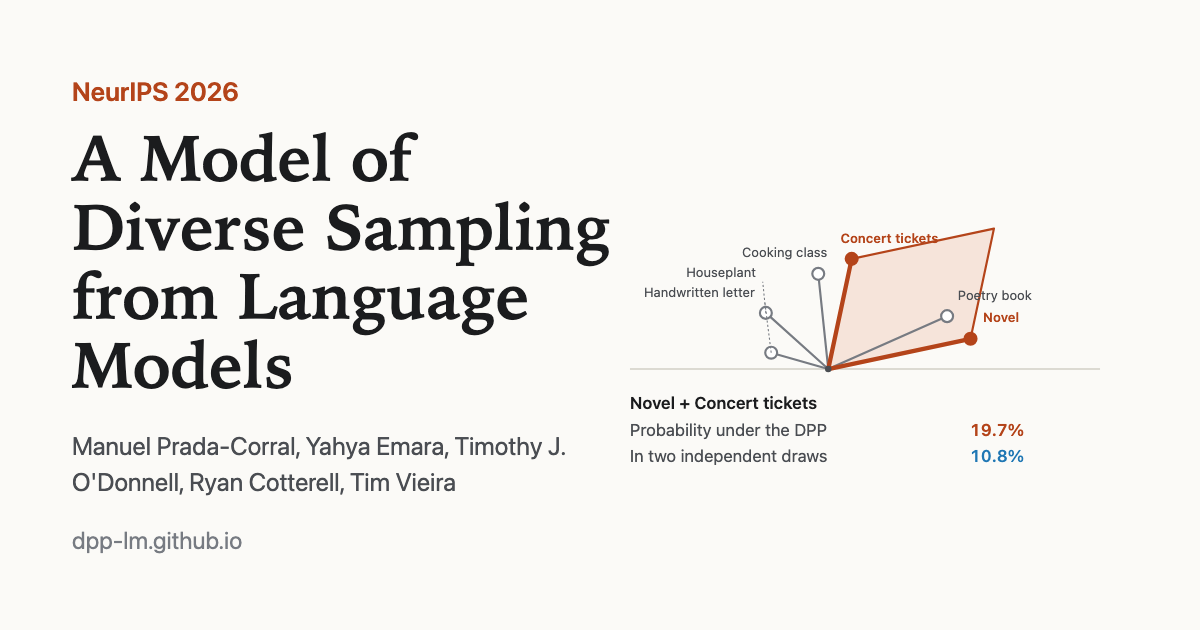
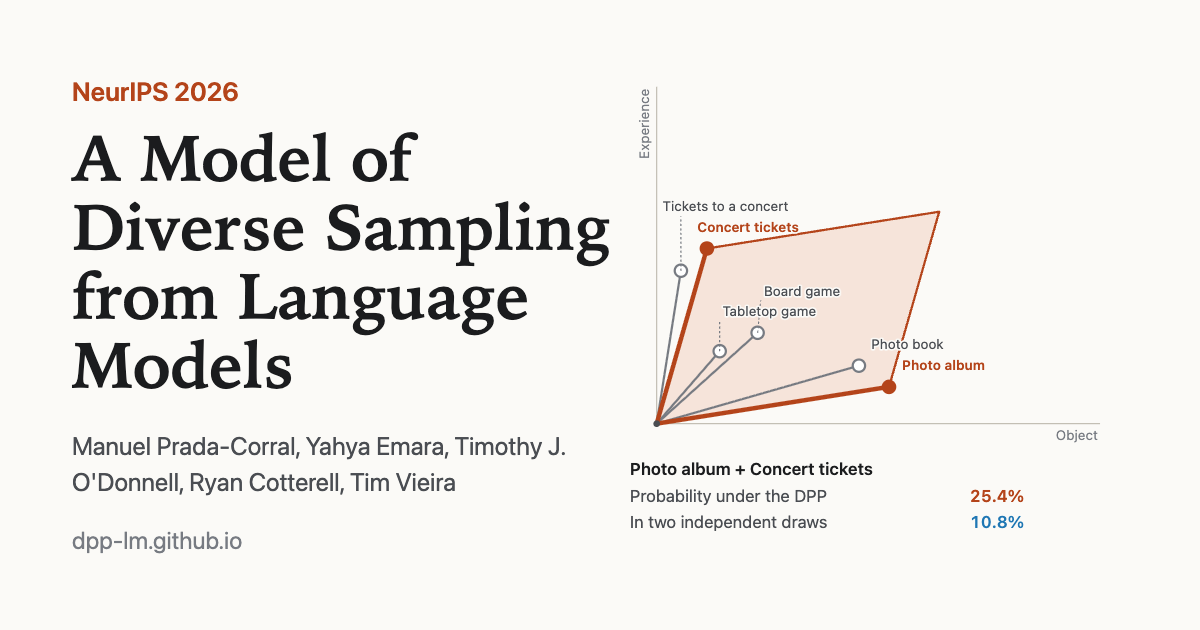
toy paraphrases, named axes, repo label

diff --git a/js/w-volume.js b/js/w-volume.js
@@ -1,5 +1,5 @@
 // Widget "volume": the squared area spanned by two quality-scaled embeddings is the 2-DPP score of a pair.
-import { TOY, TOY_PROMPT } from './toy.js';
+import { TOY, TOY_PROMPT, TOY_AXES } from './toy.js';
 import { bindRange } from './ui-range.js';
 import { quality, length, sin2, dppPairs, indepPairs, topPair, mostDifferentPair, placeLabels } from './w-volume-lib.js';
 
@@ -8,10 +8,12 @@ const RAD = Math.PI / 180;
 const T_MIN = 0.3, T_MAX = 5, T_DEFAULT = 1;
 const DEFAULT_SEL = [0, 1];
 const FONT = 12;
+// Arrows stay in the first quadrant, where a larger angle between two arrows always means a larger area.
+const A_MIN = 2, A_MAX = 88;
 
 const sliderToT = (v) => T_MIN * Math.pow(T_MAX / T_MIN, v / 1000);
 const tToSlider = (T) => (1000 * Math.log(T / T_MIN)) / Math.log(T_MAX / T_MIN);
-const pct = (x) => (100 * x).toFixed(1) + '%';
+const pct = (x) => (x > 0 && x < 0.0005 ? '<0.1%' : (100 * x).toFixed(1) + '%');
 const SUP = { '-': '⁻', 0: '⁰', 1: '¹', 2: '²', 3: '³', 4: '⁴', 5: '⁵', 6: '⁶', 7: '⁷', 8: '⁸', 9: '⁹' };
 function num(x) {
   if (x === 0) return '0';
@@ -59,19 +61,19 @@ export function mount(root) {
   ends.append(h('span', null, 'favors quality'), h('span', null, 'favors diversity'));
   tBlock.append(tLabel, slider, ends);
   const btns = h('div', 'wv-btns');
-  const bBooks = h('button', null, 'Two books');
+  const bSame = h('button', null, 'Same gift, two wordings');
   const bTop = h('button', null, 'Most likely pair');
   const bDiff = h('button', null, 'Most different pair');
   const bReset = h('button', null, 'Reset');
-  for (const b of [bBooks, bTop, bDiff, bReset]) b.type = 'button';
-  btns.append(bBooks, bTop, bDiff, bReset);
+  for (const b of [bSame, bTop, bDiff, bReset]) b.type = 'button';
+  btns.append(bSame, bTop, bDiff, bReset);
   controls.append(tBlock, btns);
 
   // ---- panels
   const grid = h('div', 'wv-grid');
   const plotPanel = h('div', 'wv-plotpanel');
   const plotBox = h('div', 'wv-plotbox');
-  const svg = el('svg', { class: 'wv-svg', role: 'group', 'aria-label': 'Six answers as arrows from the origin' });
+  const svg = el('svg', { class: 'wv-svg', role: 'group', 'aria-label': `Six answers as arrows from the origin. Horizontal: ${TOY_AXES.x.toLowerCase()}. Vertical: ${TOY_AXES.y.toLowerCase()}.` });
   plotBox.append(svg);
   const plotNote = h('p', 'wv-help fig-note', 'Select two arrows or drag a tip. Length is the square root of quality, relative to the longest arrow.');
   const readout = h('div', 'wv-readout');
@@ -94,19 +96,20 @@ export function mount(root) {
     return items.map((it) => measure.measureText(it.short).width);
   };
 
+  // The plot is a square of side W, with the origin at its lower left.
   function frame() {
-    return { W: Math.max(260, Math.floor(plotBox.clientWidth || 320)) };
+    return { W: Math.max(260, Math.min(SIDE_MAX, Math.floor(plotBox.clientWidth || 320))) };
   }
   // One fixed frame for every pair, drag angle, and T. Scaling all lengths by one factor leaves the 2-DPP unchanged,
-  // so lengths are drawn relative to the longest arrow, which keeps R pixels. With angles in [2, 178] degrees, a far
-  // corner lies within REACH * R of the origin, where REACH = 1 + the second-longest relative length at T_MAX.
+  // so lengths are drawn relative to the longest arrow, which keeps R pixels. With angles in [A_MIN, A_MAX], a far
+  // corner lies within REACH * R of the origin along each axis, where REACH = 1 + the second-longest relative
+  // length at T_MAX. GUT holds the axis titles, left of the vertical axis and below the horizontal one.
   const REACH = (() => { const l = items.map((it) => length(it.p, T_MAX)).sort((a, b) => b - a); return 1 + l[1] / l[0]; })();
-  const MARGIN = 12;
+  const MARGIN = 12, GUT = 18, SIDE_MAX = 440;
   function viewAt(T) {
     const { W } = frame();
-    const R = (W - 2 * MARGIN) / (2 * REACH);
-    const H = Math.ceil(REACH * R + 2 * MARGIN);
-    return { W, H, s: R / Math.max(...items.map((it) => length(it.p, T))), ox: W / 2, oy: H - MARGIN, T };
+    const R = (W - GUT - MARGIN) / REACH;
+    return { W, H: W, s: R / Math.max(...items.map((it) => length(it.p, T))), ox: GUT, oy: W - GUT, T };
   }
   const tipAt = (i, v) => {
     const L = length(items[i].p, v.T) * v.s;
@@ -126,22 +129,30 @@ export function mount(root) {
     svg.textContent = '';
     const { ox, oy } = v;
     const [sa, sb] = state.sel;
-    svg.append(el('line', { class: 'wv-axis', x1: 0, y1: oy, x2: W, y2: oy }));
+    svg.append(el('line', { class: 'wv-axis', x1: ox, y1: oy, x2: W, y2: oy }));
+    svg.append(el('line', { class: 'wv-axis', x1: ox, y1: oy, x2: ox, y2: 0 }));
+    svg.append(el('text', { class: 'wv-axt', x: W - 2, y: oy + 14, 'text-anchor': 'end' }, TOY_AXES.x));
+    svg.append(el('text', { class: 'wv-axt', transform: `translate(${ox - 6} 2) rotate(-90)`, 'text-anchor': 'end' }, TOY_AXES.y));
 
     const tips = items.map((_, i) => tipAt(i, v));
     const A = tips[sa], B = tips[sb];
     const pts = [[ox, oy], [A.x, A.y], [A.x + B.x - ox, A.y + B.y - oy], [B.x, B.y]];
     svg.append(el('polygon', { class: 'wv-area', points: pts.map((p) => p.join(',')).join(' ') }));
     const areaPx = Math.abs((A.x - ox) * (B.y - oy) - (A.y - oy) * (B.x - ox));
-    if (areaPx > 12000) {
-      const cx = (pts[0][0] + pts[2][0]) / 2, cy = (pts[0][1] + pts[2][1]) / 2;
-      const a = items[sa], b = items[sb];
-      const t = el('text', { class: 'wv-areatext', x: cx, y: cy + 4, 'text-anchor': 'middle' }, `area² ${num(quality(a.p, state.T) * quality(b.p, state.T) * sin2(a, b))}`);
-      svg.append(t);
-    }
+    const areaText = areaPx > 12000 ? el('text', { class: 'wv-areatext', 'text-anchor': 'middle' }, `area² ${num(quality(items[sa].p, state.T) * quality(items[sb].p, state.T) * sin2(items[sa], items[sb]))}`) : null;
+    if (areaText) svg.append(areaText);
 
     const widths = labelWidths();
     const boxes = placeLabels({ items, tips, ox, oy, W, widths, rMin: Math.max(34, 0.09 * W), h: FONT + 5 });
+    if (areaText) {
+      // On the diagonal of the parallelogram, at the spot nearest its center that is clear of the answer labels and tips.
+      const tw = 7.2 * areaText.textContent.length, th = 16;
+      const clear = ([cx, cy]) => boxes.every((b) => Math.abs(b.cx - cx) >= (b.w + tw) / 2 || Math.abs(b.cy - cy) >= (b.h + th) / 2)
+        && tips.every((t) => Math.abs(t.x - cx) >= tw / 2 + 9 || Math.abs(t.y - cy) >= th / 2 + 9);
+      const spots = [0.5, 0.6, 0.4, 0.7, 0.3, 0.8].map((u) => [ox + (pts[2][0] - ox) * u, oy + (pts[2][1] - oy) * u]);
+      const [cx, cy] = spots.find(clear) || spots[0];
+      areaText.setAttribute('x', cx); areaText.setAttribute('y', cy + 4);
+    }
 
     const order = items.map((_, i) => i).sort((a, b) => (state.sel.includes(a) ? 1 : 0) - (state.sel.includes(b) ? 1 : 0));
     for (const i of order) {
@@ -151,7 +162,7 @@ export function mount(root) {
         class: 'wv-arrow' + (sel ? ' is-sel' : ''),
         tabindex: 0, role: 'slider', 'data-i': i,
         'aria-label': `${items[i].short}, probability ${pct(items[i].p)}`,
-        'aria-valuemin': 2, 'aria-valuemax': 178, 'aria-valuenow': Math.round(items[i].angle),
+        'aria-valuemin': A_MIN, 'aria-valuemax': A_MAX, 'aria-valuenow': Math.round(items[i].angle),
         'aria-valuetext': `${Math.round(items[i].angle)} degrees${sel ? ', selected' : ''}`,
       });
       g.append(el('line', { class: 'wv-hit', x1: ox, y1: oy, x2: t.x, y2: t.y }));
@@ -221,7 +232,7 @@ export function mount(root) {
     const y = (e.clientY - r.top) * (geo.H / r.height);
     return Math.atan2(view.oy - y, x - view.ox) / RAD;
   }
-  function setAngle(i, a) { items[i].angle = Math.min(178, Math.max(2, a)); }
+  function setAngle(i, a) { items[i].angle = Math.min(A_MAX, Math.max(A_MIN, a)); }
   function onMove(e) {
     if (!drag || e.pointerId !== drag.id) return;
     setAngle(drag.i, pointerAngle(e));
@@ -342,7 +353,7 @@ export function mount(root) {
 
   // ---- controls
   slider.addEventListener('input', () => { state.T = sliderToT(+slider.value); update(true); });
-  bBooks.addEventListener('click', () => { state.sel = [0, 1]; update(true); });
+  bSame.addEventListener('click', () => { state.sel = [0, 1]; update(true); });
   bTop.addEventListener('click', () => { const t = topPair(items, state.T); state.sel = [t.i, t.j]; update(true); });
   bDiff.addEventListener('click', () => { const m = mostDifferentPair(items); state.sel = [m.i, m.j]; update(true); });
   bReset.addEventListener('click', () => {
@@ -351,7 +362,7 @@ export function mount(root) {
     update(true);
   });
 
-  // First-view hint: the Houseplant tip swings 12 degrees and back, then stops.
+  // First-view hint: the Board game tip swings 12 degrees and back, then stops.
   const HINT_I = 4;
   function stopHint() { if (hint) { cancelAnimationFrame(hint.raf); items[HINT_I].angle = hint.base; hint = null; update(false); } }
   function playHint() {
@@ -379,7 +390,7 @@ export function mount(root) {
   if (typeof ResizeObserver !== 'undefined') {
     let last = geo.W;
     new ResizeObserver(() => {
-      const w = Math.max(260, Math.floor(plotBox.clientWidth || 320));
+      const w = frame().W;
       if (w !== last && !drag) { last = w; update(); }
     }).observe(plotBox);
   }

diff --git a/js/w-hero.js b/js/w-hero.js
@@ -1,20 +1,21 @@
-// Widget "hero": six answers as arrows that cycle through pairs, each pair's parallelogram and probabilities.
-import { TOY, TOY_PROMPT } from './toy.js';
+// Widget "hero": six answers as arrows in one quadrant that cycle through pairs, each pair's parallelogram and probabilities.
+import { TOY, TOY_PROMPT, TOY_AXES } from './toy.js';
 import { length, pairDet, normalizer, indepPairs, fitContent, placeLabels } from './w-volume-lib.js';
 
 const NS = 'http://www.w3.org/2000/svg';
 const RAD = Math.PI / 180;
 const FONT = 12;
+const GUT = 16; // room for the axis titles: left of the vertical axis and below the horizontal one
 const T = 1;
 const INTERVAL = 5000;
 const TWEEN = 900;
-// Alternates similar pairs (small angle) and different pairs (large angle).
+// Alternates two wordings of one gift (small angle) and two different gifts (large angle).
 const SEQUENCE = [[0, 1], [0, 2], [2, 3], [1, 4], [4, 5], [2, 5]];
 // Every pair a visitor can select; the fixed view fits all of their parallelograms.
 const ALL_PAIRS = TOY.flatMap((_, i) => TOY.map((_, j) => [i, j]).filter(([, j]) => j > i));
 const REDUCED_PAIR = [0, 2];
 const coarse = () => matchMedia('(pointer: coarse)').matches;
-const pct = (x) => (100 * x).toFixed(1) + '%';
+const pct = (x) => (x > 0 && x < 0.0005 ? '<0.1%' : (100 * x).toFixed(1) + '%');
 
 const el = (tag, attrs = {}, text) => {
   const n = document.createElementNS(NS, tag);
@@ -42,7 +43,7 @@ export function mount(root) {
   root.classList.add('w-hero');
   root.textContent = '';
   const plotBox = h('div', 'wh-plot');
-  const svg = el('svg', { class: 'wh-svg', role: 'group', 'aria-label': 'Six answers as arrows from the origin' });
+  const svg = el('svg', { class: 'wh-svg', role: 'group', 'aria-label': `Six answers as arrows from the origin. Horizontal: ${TOY_AXES.x.toLowerCase()}. Vertical: ${TOY_AXES.y.toLowerCase()}.` });
   plotBox.append(svg);
   const line = h('p', 'wh-line');
   line.setAttribute('aria-live', 'off');
@@ -67,7 +68,7 @@ export function mount(root) {
   let timer = null, tween = null;
   let W = 0, H = 0, widths = [];
   let view = null, vecU = null; // view = { s, ox, oy }, vecU = unit-scale vectors of the drawn parallelogram
-  let arrows = [], labelEls = [], leaders = [], areaEl = null, axisEl = null, originEl = null;
+  let arrows = [], labelEls = [], leaders = [], areaEl = null, axisX = null, axisY = null, titleX = null, titleY = null, originEl = null;
   const unitVec = (i) => {
     const L = length(items[i].p, T), a = items[i].angle * RAD;
     return [L * Math.cos(a), L * Math.sin(a)];
@@ -78,8 +79,9 @@ export function mount(root) {
     const ctx = h('canvas').getContext('2d');
     ctx.font = `600 ${FONT}px ${getComputedStyle(root).fontFamily || 'sans-serif'}`;
     widths = items.map((it) => ctx.measureText(it.short).width);
-    view = fitContent({ items, T, pairList: ALL_PAIRS, W, hMin: 0.45 * W, hMax: 0.75 * W, labelW: widths, labelH: FONT + 5 });
-    H = view.H;
+    view = fitContent({ items, T, pairList: ALL_PAIRS, W: W - GUT, hMin: 0.45 * W, hMax: 0.75 * W, margin: 8, labelW: widths, labelH: FONT + 5 });
+    view.ox += GUT;
+    H = view.H + GUT;
   }
 
   function build() {
@@ -87,7 +89,10 @@ export function mount(root) {
     svg.textContent = '';
     svg.setAttribute('viewBox', `0 0 ${W} ${H}`);
     svg.setAttribute('width', W); svg.setAttribute('height', H);
-    axisEl = el('line', { class: 'wh-axis' }); svg.append(axisEl);
+    axisX = el('line', { class: 'wh-axis' }); axisY = el('line', { class: 'wh-axis' });
+    titleX = el('text', { class: 'wh-axt', 'text-anchor': 'end' }, TOY_AXES.x);
+    titleY = el('text', { class: 'wh-axt', 'text-anchor': 'end' }, TOY_AXES.y);
+    svg.append(axisX, axisY, titleX, titleY);
     areaEl = el('polygon', { class: 'wh-area' }); svg.append(areaEl);
     arrows = items.map((it, i) => {
       const g = el('g', { class: 'wh-arrow', tabindex: 0, role: 'button', 'data-i': i, 'aria-label': `${it.short}, probability ${pct(it.p)}` });
@@ -120,7 +125,10 @@ export function mount(root) {
   // Position every element from the view and the (possibly mid-tween) parallelogram vectors.
   function place() {
     const { s, ox, oy } = view;
-    axisEl.setAttribute('x1', 0); axisEl.setAttribute('x2', W); axisEl.setAttribute('y1', oy); axisEl.setAttribute('y2', oy);
+    axisX.setAttribute('x1', ox); axisX.setAttribute('x2', W); axisX.setAttribute('y1', oy); axisX.setAttribute('y2', oy);
+    axisY.setAttribute('x1', ox); axisY.setAttribute('x2', ox); axisY.setAttribute('y1', oy); axisY.setAttribute('y2', 0);
+    titleX.setAttribute('x', W - 2); titleX.setAttribute('y', oy + 15);
+    titleY.setAttribute('transform', `translate(${ox - 7} 2) rotate(-90)`);
     originEl.setAttribute('cx', ox); originEl.setAttribute('cy', oy);
     const tips = items.map((_, i) => { const [ux, uy] = unitVec(i); return { x: ox + ux * s, y: oy - uy * s, L: Math.hypot(ux, uy) * s }; });
     arrows.forEach((a, i) => {

diff --git a/css/site.css b/css/site.css
@@ -55,8 +55,8 @@ a:hover { text-decoration-thickness: 2px; }
 .hero { padding: 3.5rem var(--gutter) 2.5rem; border-bottom: 1px solid var(--line); }
 .hero-inner { max-width: var(--w-wide); margin: 0 auto; }
 .hero-inner { display: grid; grid-template-columns: minmax(0, 1fr) 420px; gap: 2.5rem; align-items: center; }
-.hero-fig { min-height: 340px; min-width: 0; align-self: center; }
-.hero-fig .widget { min-height: 340px; }
+.hero-fig { min-height: 446px; min-width: 0; align-self: center; }
+.hero-fig .widget { min-height: 446px; }
 .hero-fig.is-empty { display: none; }
 @media (min-width: 761px) { .hero-inner.has-empty, .hero-inner:has(.is-empty) { grid-template-columns: minmax(0, 1fr); } }
 @media (max-width: 760px) { .hero-inner { grid-template-columns: minmax(0, 1fr); gap: 1.75rem; } .hero-fig { min-height: 0; } .hero-fig .widget { min-height: 0; } }
@@ -73,7 +73,7 @@ a:hover { text-decoration-thickness: 2px; }
 .affils sup { margin: 0 2px 0 0; }
 .buttons { margin: 0; display: flex; flex-wrap: wrap; gap: 0.6rem; }
 .btn {
-  display: inline-block; padding: 0.45rem 1.2rem; border-radius: 999px;
+  display: inline-block; padding: 0.45rem 1.05rem; border-radius: 999px;
   border: 1px solid var(--line-strong); color: var(--ink);
   background: transparent; text-decoration: none; font-size: var(--text-s); font-weight: 550;
 }
@@ -167,15 +167,15 @@ main > .sec:last-child { padding-bottom: 4rem; }
 }
 
 /* Reserved heights until a widget has mounted (measured at 1280 and 390 px). */
-.widget[data-widget="samples"]:not([data-ready]) { min-height: 919px; }
-.widget[data-widget="volume"]:not([data-ready]) { min-height: 696px; }
-.widget[data-widget="pool"]:not([data-ready]) { min-height: 1074px; }
-.widget[data-widget="frontier"]:not([data-ready]) { min-height: 977px; }
+.widget[data-widget="samples"]:not([data-ready]) { min-height: 992px; }
+.widget[data-widget="volume"]:not([data-ready]) { min-height: 862px; }
+.widget[data-widget="pool"]:not([data-ready]) { min-height: 1043px; }
+.widget[data-widget="frontier"]:not([data-ready]) { min-height: 804px; }
 @media (max-width: 760px) {
-  .widget[data-widget="samples"]:not([data-ready]) { min-height: 1452px; }
-  .widget[data-widget="volume"]:not([data-ready]) { min-height: 1352px; }
-  .widget[data-widget="pool"]:not([data-ready]) { min-height: 1877px; }
-  .widget[data-widget="frontier"]:not([data-ready]) { min-height: 1190px; }
+  .widget[data-widget="samples"]:not([data-ready]) { min-height: 1680px; }
+  .widget[data-widget="volume"]:not([data-ready]) { min-height: 1349px; }
+  .widget[data-widget="pool"]:not([data-ready]) { min-height: 1934px; }
+  .widget[data-widget="frontier"]:not([data-ready]) { min-height: 957px; }
 }
 
 .lede { margin: 0 0 1.25rem; max-width: 36rem; font-size: 1.125rem; line-height: 1.5; color: var(--ink-2); }

diff --git a/js/toy.js b/js/toy.js
@@ -1,16 +1,20 @@
-// The toy model used by the "volume" and "pool" widgets: six answers to "Suggest a birthday gift for a friend."
-// It is illustrative, not model output. Each answer has a probability p under a pretend language model and a
-// unit embedding in the plane at the given angle (degrees). Answers 0 and 1 are near-duplicates, as are 2 and 3.
+// The toy model used by the "hero", "volume", and "pool" widgets: six answers to "Suggest a birthday gift for a friend."
+// It is illustrative, not model output. The answers are three gift ideas in two wordings each: answers 0 and 1,
+// 2 and 3, and 4 and 5 are near-duplicates. Each answer has a probability p under a pretend language model and a
+// unit embedding in the plane at the given angle (degrees). All angles lie in the first quadrant, where the
+// horizontal axis stands for an object and the vertical axis for an experience, so a larger angle between two
+// answers always means a larger area.
 // data/pool-toy.json is precomputed from these values: change them only together with scripts/precompute_pool.mjs.
 export const TOY_PROMPT = 'Suggest a birthday gift for a friend.';
+export const TOY_AXES = { x: 'Object', y: 'Experience' };
 
 export const TOY = [
-  { id: 'novel',   text: 'A novel by their favorite author',  short: 'Novel',            p: 0.30, angle: 12 },
-  { id: 'poetry',  text: 'A book of poems',                   short: 'Poetry book',      p: 0.24, angle: 24 },
-  { id: 'concert', text: 'Tickets to a concert',              short: 'Concert tickets',  p: 0.18, angle: 78 },
-  { id: 'class',   text: 'A cooking class for two',           short: 'Cooking class',    p: 0.13, angle: 96 },
-  { id: 'plant',   text: 'A houseplant',                      short: 'Houseplant',       p: 0.10, angle: 138 },
-  { id: 'letter',  text: 'A handwritten letter',              short: 'Handwritten letter', p: 0.05, angle: 164 },
+  { id: 'album',    text: 'A photo album of your memories together', short: 'Photo album',          p: 0.30, angle: 9 },
+  { id: 'book',     text: 'A photo book of your time together',      short: 'Photo book',           p: 0.24, angle: 16 },
+  { id: 'concert',  text: 'Concert tickets for the two of you',      short: 'Concert tickets',      p: 0.18, angle: 74 },
+  { id: 'tickets',  text: 'Tickets to a concert together',           short: 'Tickets to a concert', p: 0.13, angle: 81 },
+  { id: 'board',    text: 'A board game to play together',           short: 'Board game',           p: 0.10, angle: 42 },
+  { id: 'tabletop', text: 'A tabletop game for game nights',         short: 'Tabletop game',        p: 0.05, angle: 49 },
 ];
 
 export const TOY_K = 2;

diff --git a/index.html b/index.html
@@ -83,7 +83,7 @@
     <p class="buttons">
       <a class="btn btn-primary" href="https://arxiv.org/abs/2611.25003">Paper</a>
       <a class="btn" href="https://neurips.cc/virtual/2026/poster/151475">NeurIPS page</a>
-      <a class="btn" href="https://github.com/rycolab/pool-dpp">Code</a>
+      <a class="btn" href="https://github.com/rycolab/pool-dpp">Experiment code</a>
       <a class="btn" href="/demo/">Live demo</a>
       <a class="btn" href="#cite">Cite</a>
     </p>
@@ -152,7 +152,7 @@
       <h3>Guarantee</h3>
       <p>Write \(p_K\) for the target K-DPP over all strings and \(\bar\pi\) for the distribution of the set that PoolDPP-Samp returns, averaged over random pools. Then</p>
       <p class="eq">\[ \begin{aligned} \mathrm{KL}\big(p_K \,\|\, \bar\pi\big) &\le \log\!\Big(1 + \frac{\operatorname{Var}(\hat Z)}{Z^2}\Big) \\ &\le \frac{K^2 \rho}{N - K + 1} \end{aligned} \]</p>
-      <p>where \(Z\) is the target's normalizer, \(\hat Z\) is its estimate from the pool, and \(\rho\) measures the mismatch between the proposal and the target (the second bound needs a finite \(\rho\)). The bound holds at every pool size and decays as \(1/N\). It is an upper bound, so the divergence can fall faster, as it does in the toy model above. It covers PoolDPP-Samp only: PoolDPP-MAP is a deterministic function of the pool and has no distributional guarantee. The theorems are formalized in Lean, see the <a href="https://github.com/rycolab/pool-dpp/tree/main/lean">code repository</a>.</p>
+      <p>where \(Z\) is the target's normalizer, \(\hat Z\) is its estimate from the pool, and \(\rho\) measures the mismatch between the proposal and the target (the second bound needs a finite \(\rho\)). The bound holds at every pool size and decays as \(1/N\). It is an upper bound, so the divergence can fall faster, as it does in the toy model above. It covers PoolDPP-Samp only: PoolDPP-MAP is a deterministic function of the pool and has no distributional guarantee. The theorems are formalized in Lean, see the <a href="https://github.com/rycolab/pool-dpp/tree/main/lean">Lean files</a>.</p>
     </aside>
   </div>
 </section>

diff --git a/css/w-volume.css b/css/w-volume.css
@@ -10,8 +10,9 @@
 
 .w-volume .wv-plotbox { width: 100%; background: var(--surface); }
 .w-volume .wv-help { margin-top: 0.35rem; }
-.w-volume .wv-svg { display: block; max-width: 100%; touch-action: none; user-select: none; -webkit-user-select: none; }
+.w-volume .wv-svg { display: block; margin: 0 auto; max-width: 100%; touch-action: none; user-select: none; -webkit-user-select: none; }
 .w-volume .wv-axis { stroke: var(--line-strong); stroke-width: 1; }
+.w-volume .wv-axt { fill: var(--ink-3); font-family: var(--font); font-size: 12px; pointer-events: none; }
 .w-volume .wv-area { fill: var(--accent-soft); stroke: var(--accent); stroke-width: 2; stroke-linejoin: round; }
 .w-volume .wv-areatext { fill: var(--accent); font-size: 12px; font-weight: 600; pointer-events: none; paint-order: stroke; stroke: var(--accent-soft); stroke-width: 3px; }
 .w-volume .wv-origin { fill: var(--ink-2); }

diff --git a/css/w-pool.css b/css/w-pool.css
@@ -51,7 +51,7 @@
 .w-pool .w-pool-lg-bar { width: 1.2rem; height: 0.55rem; background: var(--m-samp); border-radius: 2px; }
 .w-pool .w-pool-lg-tick { width: 2px; height: 0.8rem; background: var(--ink-2); }
 .w-pool .w-pool-scale { margin-left: auto; }
-.w-pool .w-pool-prow { display: grid; grid-template-columns: minmax(7rem, 14rem) minmax(0, 1fr) 2.8rem; gap: 0.5rem; align-items: center; height: 20px; }
+.w-pool .w-pool-prow { display: grid; grid-template-columns: minmax(7rem, 16.5rem) minmax(0, 1fr) 2.8rem; gap: 0.5rem; align-items: center; height: 20px; }
 .w-pool .w-pool-pname { font-size: var(--text-xs); white-space: nowrap; overflow: hidden; text-overflow: ellipsis; }
 .w-pool .w-pool-ptrack { height: 0.7rem; }
 .w-pool .w-pool-zero .w-pool-pname, .w-pool .w-pool-zero .w-pool-pnum { color: var(--ink-3); }

diff --git a/css/w-hero.css b/css/w-hero.css
@@ -2,6 +2,7 @@
 .w-hero .wh-plot { width: 100%; }
 .w-hero .wh-svg { display: block; max-width: 100%; touch-action: manipulation; }
 .w-hero .wh-axis { stroke: var(--line-strong); stroke-width: 1; }
+.w-hero .wh-axt { fill: var(--ink-3); font-family: var(--font); font-size: 12px; }
 .w-hero .wh-area { fill: var(--accent-soft); stroke: var(--accent); stroke-width: 2; stroke-linejoin: round; }
 .w-hero .wh-origin { fill: var(--ink-2); }
 .w-hero .wh-arrow { cursor: pointer; outline: none; }
